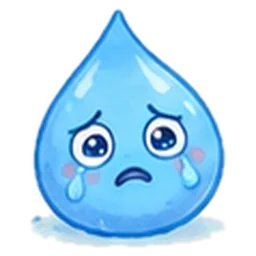
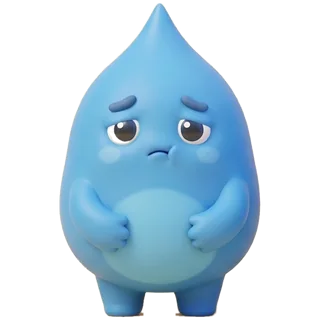
v11.1：難過怪獸換成 3D 新圖
Claude-Session: https://claude.ai/code/session_01CEkvYQrBkbWEs5gG6BXqD9

diff --git a/index.html b/index.html
@@ -771,7 +771,7 @@ const moodOf=n=>[1,1,2,3,4,4][n]||3;
 const BADGE={angry:['🚦','紅綠燈徽章','生氣時會先停一下'],sad:['☂','小雨傘','難過時會照顧自己'],defiant:['🏅','進步獎牌','跟昨天的自己比'],
   stuck:['🚩','一步一步旗','把難事切成小步驟'],scared:['🛡','勇氣盾牌','先試一小步'],wronged:['💬','說話泡泡','說出自己的想法']};
 /* 已換成 3D 新圖、有 4 階段成長圖的怪獸（徽章已畫在圖裡，不再疊 emoji） */
-const GROWN=new Set(['angry']);
+const GROWN=new Set(['angry','sad']);
 const IMG=(k,st)=>`img/${k}${st}.webp`;
 function nextOf(xp){const l=lvOf(xp);if(l>=LEVELS.length)return {pct:100,need:0};const a=LEVELS[l-1],b=LEVELS[l];return {pct:Math.round((xp-a)/(b-a)*100),need:b-xp}}
 const HEROES={fox:{name:'小狐狸',c:'#F39A4B'},bear:{name:'小熊',c:'#B07A52'},rabbit:{name:'小兔子',c:'#E9DDF2'},cat:{name:'小貓',c:'#9AA3B5'}};
